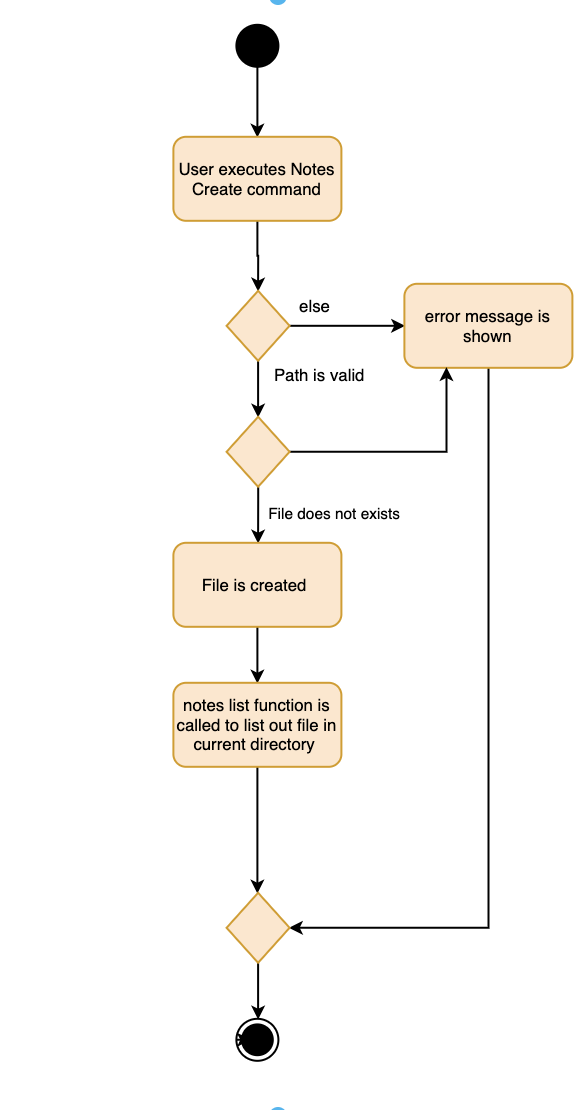
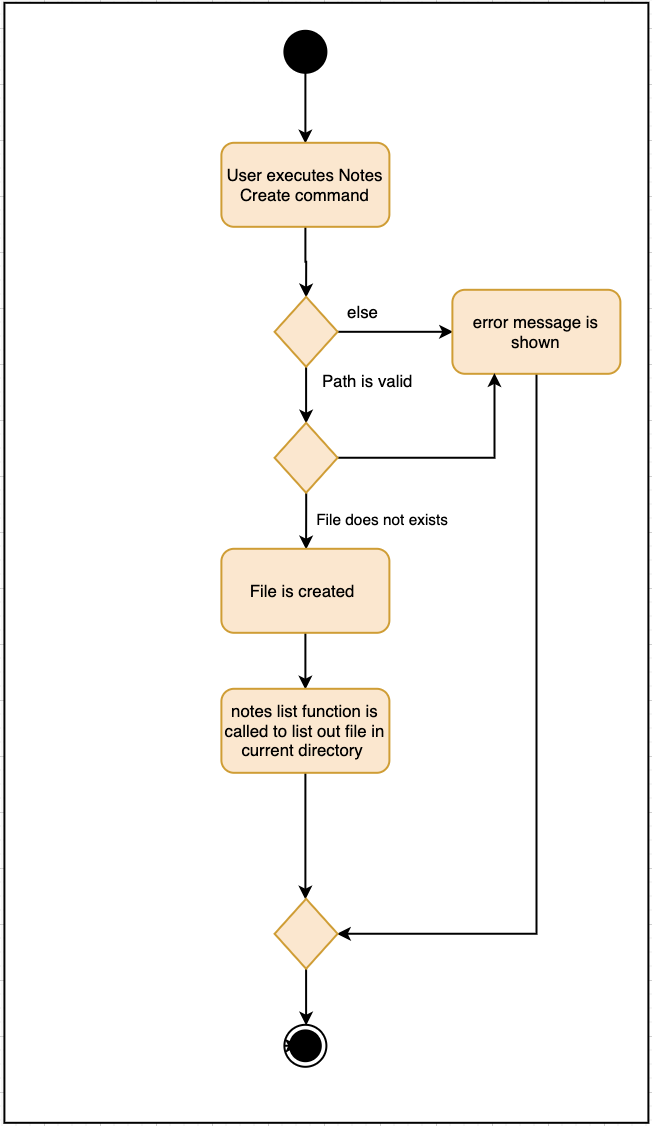
Rebuild pages at f28ee27adf2f9c534672d38e091a58de673bfee4

Changed region(s): [[0.0, 0.0, 1.0, 1.0]]

diff --git a/team/zhouxinwei.html b/team/zhouxinwei.html
@@ -1,0 +1,175 @@
+<!DOCTYPE html><html lang="en"><head><meta charset="UTF-8"><!--[if IE]><meta http-equiv="X-UA-Compatible" content="IE=edge"><![endif]--><meta name="viewport" content="width=device-width, initial-scale=1.0"><meta name="generator" content="Asciidoctor 1.5.6.1"><title>Zhou Xinwei - Project Portfolio</title><link rel="stylesheet" href="../stylesheets/gh-pages.css">
+<link rel="stylesheet" href="https://cdnjs.cloudflare.com/ajax/libs/font-awesome/4.5.0/css/font-awesome.min.css">
+<link rel="stylesheet" href="../stylesheets/coderay-asciidoctor.css"></head><body class="article"><div id="seedu-header"><nav class="navbar navbar-lg navbar-light bg-lighter"><div class="container"><a class="navbar-brand" href="https://se-edu.github.io/"><img src="../images/SeEduLogo.png" alt="SE-EDU"></a><ul class="navbar-nav"><li class="nav-item"><a class="nav-link" href="https://se-edu.github.io/addressbook-level1">AB-1</a></li><li class="nav-item"><a class="nav-link" href="https://se-edu.github.io/addressbook-level2">AB-2</a></li><li class="nav-item"><a class="nav-link active" href="../index.html">AB-3</a></li><li class="nav-item"><a class="nav-link" href="https://se-edu.github.io/addressbook-level4">AB-4</a></li><li class="nav-item"><a class="nav-link" href="https://se-edu.github.io/collate">Collate</a></li><li class="nav-item"><a class="nav-link" href="https://se-edu.github.io/se-book">Book</a></li><li class="nav-item"><a class="nav-link" href="https://se-edu.github.io/learningresources">Resources</a></li></ul></div></nav></div><div id="site-header"><nav class="navbar navbar-light bg-light"><div class="container"><a class="navbar-brand" href="../index.html">NUSProductivity</a><ul class="navbar-nav"><li class="nav-item"><a class="nav-link" href="../UserGuide.html">User Guide</a></li><li class="nav-item"><a class="nav-link" href="../DeveloperGuide.html">Developer Guide</a></li><li class="nav-item"><a class="nav-link" href="../LearningOutcomes.html">LOs</a></li><li class="nav-item"><a class="nav-link active" href="../AboutUs.html">About Us</a></li><li class="nav-item"><a class="nav-link" href="../ContactUs.html">Contact Us</a></li><li class="navitem"><a class="nav-link" href="https://github.com/se-edu/addressbook-level3"><span class="fa fa-github fa-lg" aria-hidden="true"></span>&nbsp;View on GitHub</a></li></ul></div></nav></div><div id="header"><h1>Zhou Xinwei - Project Portfolio</h1></div><div id="content"><div class="sect1">
+<h2 id="project-nusproductivity"><a class="link" href="#project-nusproductivity">PROJECT: NUSProductivity</a></h2>
+<div class="sectionbody">
+<hr>
+</div>
+</div>
+<div class="sect1">
+<h2 id="overview"><a class="link" href="#overview">Overview</a></h2>
+<div class="sectionbody">
+<div class="paragraph">
+<p>NUSProductivity is a desktop application for NUS students. The user interacts with it using a CLI, and it has a GUI creasted with JavaFX. The application is intended to help NUS students solve their productivity issues and ease student&#8217;s daily task in NUS.</p>
+</div>
+</div>
+</div>
+<div class="sect1">
+<h2 id="summary-of-contributions"><a class="link" href="#summary-of-contributions">Summary of contributions</a></h2>
+<div class="sectionbody">
+<div class="ulist">
+<ul>
+<li>
+<p><strong>Major enhancement</strong>: Added all UI functionality to the system</p>
+<div class="ulist">
+<ul>
+<li>
+<p>What it does: Allows all commands entered to display on the User interface</p>
+</li>
+<li>
+<p>Justification: This feature improves the product significantly because a user will be able to see all changes made to the user display.</p>
+</li>
+<li>
+<p>Highlights: This enhancement affects existing commands and commands to be added in future. It required an in-depth analysis of design alternatives. The implementation too was challenging as it required changes to existing commands.</p>
+</li>
+<li>
+<p>Credits: <em>{mention here if you reused any code/ideas from elsewhere or if a third-party library is heavily used in the feature so that a reader can make a more accurate judgement of how much effort went into the feature}</em></p>
+</li>
+</ul>
+</div>
+</li>
+<li>
+<p><strong>Major enhancement 2</strong>: Notes Feature</p>
+<div class="ulist">
+<ul>
+<li>
+<p>What it does: This feature allow users to create, open, delete and list all files in a directory that the user specified</p>
+</li>
+<li>
+<p>Justification: This feature improves the product significantly because a user will be able to access their desktop through the use of the app to create documents.</p>
+</li>
+<li>
+<p>Highlights: This enhancement requires it to be compatible with any operating system, mainly Windows, Mac and Linux. The implementation with the pathing was one of the harder one to grasp especially with different pathing system used by different operating system.</p>
+</li>
+</ul>
+</div>
+</li>
+<li>
+<p><strong>Major enhancement 3</strong>: Calendar Feature</p>
+<div class="ulist">
+<ul>
+<li>
+<p>What it does: This feature allow users to track deadlines and tasks related to modules. It allows user to see what tasks is due on a day, what task is currently ongoing/done and the ability to find task and sort task in the User Interface.</p>
+</li>
+<li>
+<p>Justification: This feature improves the product significantly because a user will be able to write down different task that needs to be completed by a certain date.</p>
+</li>
+<li>
+<p>Highlights: This enhancement affects existing commands, particularly the storage functions. It required an in-depth analysis of design alternatives. The implementation was challenging as well since I had to modify various aspect of the storage system.</p>
+</li>
+</ul>
+</div>
+</li>
+<li>
+<p><strong>Minor enhancement</strong>: Added all functionality to the user interface.</p>
+</li>
+<li>
+<p><strong>Code contributed</strong>: [<a href="https://nus-cs2103-ay1920s2.github.io/tp-dashboard/#search=zhouxinwei97&amp;sort=groupTitle&amp;sortWithin=title&amp;since=2020-02-14&amp;timeframe=commit&amp;mergegroup=false&amp;groupSelect=groupByRepos&amp;breakdown=false">Functional code</a>]</p>
+</li>
+<li>
+<p><strong>Other contributions</strong>:</p>
+<div class="ulist">
+<ul>
+<li>
+<p>Project management:</p>
+<div class="ulist">
+<ul>
+<li>
+<p>Managed releases <code>v1.1</code> - <code>v1.4</code> (4 releases) on GitHub</p>
+</li>
+</ul>
+</div>
+</li>
+<li>
+<p>Documentation:</p>
+<div class="ulist">
+<ul>
+<li>
+<p>Did cosmetic tweaks to existing contents of the User Guide: <a href="https://github.com">#14</a></p>
+</li>
+</ul>
+</div>
+</li>
+<li>
+<p>Reviewing/mentoring contribution:</p>
+<div class="ulist">
+<ul>
+<li>
+<p>Gave feedbacks and reviewed on code pull requests <a href="https://github.com/AY1920S2-CS2103T-W16-4/main/pull/86">#86</a>, <a href="https://github.com/AY1920S2-CS2103T-W16-4/main/pull/73">#73</a></p>
+</li>
+</ul>
+</div>
+</li>
+<li>
+<p>Community:</p>
+<div class="ulist">
+<ul>
+<li>
+<p>Reported bugs and suggestions for other teams in the class (examples:  <a href="https://github.com/nus-cs2103-AY1920S2/addressbook-level3/pull/30/files/27956787443359559bd0e052afc52dd38c6dee7a">#30</a>)</p>
+</li>
+</ul>
+</div>
+</li>
+<li>
+<p>Tools:</p>
+<div class="ulist">
+<ul>
+<li>
+<p>Integrated AppVeyor to the project for CI (<a href="https://github.com/AY1920S2-CS2103T-W16-4/main/pull/10">#10</a>)</p>
+</li>
+<li>
+<p>Integrated Travis to the project for CI (<a href="https://github.com/AY1920S2-CS2103T-W16-4/main/pull/3">#3</a>)</p>
+</li>
+<li>
+<p>Integrated Coderalls to the project for CI (<a href="https://github.com/AY1920S2-CS2103T-W16-4/main/pull/10">#10</a>)</p>
+</li>
+</ul>
+</div>
+</li>
+</ul>
+</div>
+</li>
+</ul>
+</div>
+</div>
+</div>
+<div class="sect1">
+<h2 id="contributions-to-the-user-guide"><a class="link" href="#contributions-to-the-user-guide">Contributions to the User Guide</a></h2>
+<div class="sectionbody">
+<table class="tableblock frame-all grid-all spread">
+<colgroup>
+<col style="width: 100%;">
+</colgroup>
+<tbody>
+<tr>
+<td class="tableblock halign-left valign-top"><p class="tableblock"><em>Given below are sections I contributed to the User Guide. They showcase my ability to write documentation targeting end-users.</em></p></td>
+</tr>
+</tbody>
+</table>
+</div>
+</div>
+<div class="sect1">
+<h2 id="contributions-to-the-developer-guide"><a class="link" href="#contributions-to-the-developer-guide">Contributions to the Developer Guide</a></h2>
+<div class="sectionbody">
+<table class="tableblock frame-all grid-all spread">
+<colgroup>
+<col style="width: 100%;">
+</colgroup>
+<tbody>
+<tr>
+<td class="tableblock halign-left valign-top"><p class="tableblock"><em>Given below are sections I contributed to the Developer Guide. They showcase my ability to write technical documentation and the technical depth of my contributions to the project.</em></p></td>
+</tr>
+</tbody>
+</table>
+</div>
+</div></div><div id="footer"><div class="container"><div id="footer-text">Last updated 2020-04-09 05:51:53 UTC</div></div></div></body></html>

diff --git a/DeveloperGuide.html b/DeveloperGuide.html
@@ -486,7 +486,7 @@ Users can use <code>grade</code> command, followed by the module code and the gr
 </div>
 <div class="imageblock">
 <div class="content">
-<img src="images/NotesListCommand.png" alt="NotesListCommand">
+<img src="images/NotesList.png" alt="NotesList">
 </div>
 <div class="title">Figure 9. Notes List Activity Diagram</div>
 </div>
@@ -1139,4 +1139,4 @@ Expected: Similar to previous.</p>
 </div>
 </div>
 </div>
-</div></div><div id="footer"><div class="container"><div id="footer-text">Last updated 2020-04-09 02:05:58 UTC</div></div></div></body></html>
+</div></div><div id="footer"><div class="container"><div id="footer-text">Last updated 2020-04-09 05:51:53 UTC</div></div></div></body></html>

diff --git a/tutorials/RemovingFields.html b/tutorials/RemovingFields.html
@@ -175,4 +175,4 @@ While keeping the <code>address</code> field in the json files does not cause th
 <p>You can go through each individual <code>json</code> file and manually remove the <code>address</code> field.</p>
 </div>
 </div>
-</div></div><div id="footer"><div class="container"><div id="footer-text">Last updated 2020-04-09 02:05:58 UTC</div></div></div></body></html>
+</div></div><div id="footer"><div class="container"><div id="footer-text">Last updated 2020-04-09 05:51:53 UTC</div></div></div></body></html>

diff --git a/Testing.html b/Testing.html
@@ -90,4 +90,4 @@ e.g. <code>seedu.address.logic.LogicManagerTest</code></p>
 <div class="title">Figure 1. <code>Accessibility</code> permission is granted to <code>IntelliJ IDEA</code></div>
 </div>
 </div>
-</div></div><div id="footer"><div class="container"><div id="footer-text">Last updated 2020-04-09 02:05:58 UTC</div></div></div></body></html>
+</div></div><div id="footer"><div class="container"><div id="footer-text">Last updated 2020-04-09 05:51:53 UTC</div></div></div></body></html>

diff --git a/ContactUs.html b/ContactUs.html
@@ -12,4 +12,4 @@
 <p><strong>Email us</strong> : You can also reach us at <code>zhou.xinwei [at] u.nus.edu</code></p>
 </li>
 </ul>
-</div></div><div id="footer"><div class="container"><div id="footer-text">Last updated 2020-04-09 02:05:58 UTC</div></div></div></body></html>
+</div></div><div id="footer"><div class="container"><div id="footer-text">Last updated 2020-04-09 05:51:53 UTC</div></div></div></body></html>

diff --git a/SettingUp.html b/SettingUp.html
@@ -180,4 +180,4 @@ Having both Travis and AppVeyor ensures your App works on both Unix-based platfo
 </div>
 </div>
 </div>
-</div></div><div id="footer"><div class="container"><div id="footer-text">Last updated 2020-04-09 02:05:58 UTC</div></div></div></body></html>
+</div></div><div id="footer"><div class="container"><div id="footer-text">Last updated 2020-04-09 05:51:53 UTC</div></div></div></body></html>

diff --git a/tutorials/AddRemark.html b/tutorials/AddRemark.html
@@ -562,4 +562,4 @@ In this case, <code>CommandTestUtil#assertCommandSuccess</code> is the best fit 
 </div>
 </div>
 </div>
-</div></div><div id="footer"><div class="container"><div id="footer-text">Last updated 2020-04-09 02:05:58 UTC</div></div></div></body></html>
+</div></div><div id="footer"><div class="container"><div id="footer-text">Last updated 2020-04-09 05:51:53 UTC</div></div></div></body></html>

diff --git a/UsingCoveralls.html b/UsingCoveralls.html
@@ -111,4 +111,4 @@ If you have not set up Travis CI, see <a href="UsingTravis.html">UsingTravis.ado
 </ol>
 </div>
 </div>
-</div></div><div id="footer"><div class="container"><div id="footer-text">Last updated 2020-04-09 02:05:58 UTC</div></div></div></body></html>
+</div></div><div id="footer"><div class="container"><div id="footer-text">Last updated 2020-04-09 05:51:53 UTC</div></div></div></body></html>

diff --git a/UsingGradle.html b/UsingGradle.html
@@ -228,4 +228,4 @@ See <code>build.gradle</code> &#8594; <code>allprojects</code> &#8594; <code>dep
 </ul>
 </div>
 </div>
-</div></div><div id="footer"><div class="container"><div id="footer-text">Last updated 2020-04-09 02:05:58 UTC</div></div></div></body></html>
+</div></div><div id="footer"><div class="container"><div id="footer-text">Last updated 2020-04-09 05:51:53 UTC</div></div></div></body></html>

diff --git a/UsingNetlify.html b/UsingNetlify.html
@@ -138,4 +138,4 @@ The publish directory is the directory in which the built HTML documentation res
 </ol>
 </div>
 </div>
-</div></div><div id="footer"><div class="container"><div id="footer-text">Last updated 2020-04-09 02:05:58 UTC</div></div></div></body></html>
+</div></div><div id="footer"><div class="container"><div id="footer-text">Last updated 2020-04-09 05:51:53 UTC</div></div></div></body></html>

diff --git a/AboutUs.html b/AboutUs.html
@@ -89,4 +89,4 @@ We are a team based in the <a href="http://www.comp.nus.edu.sg">School of Comput
 <hr>
 </div>
 </div>
-</div></div><div id="footer"><div class="container"><div id="footer-text">Last updated 2020-04-09 02:05:58 UTC</div></div></div></body></html>
+</div></div><div id="footer"><div class="container"><div id="footer-text">Last updated 2020-04-09 05:51:53 UTC</div></div></div></body></html>

diff --git a/Documentation.html b/Documentation.html
@@ -226,4 +226,4 @@ The SE-EDU team does not provide support for modified template files.</p>
 </table>
 </div>
 </div>
-</div></div><div id="footer"><div class="container"><div id="footer-text">Last updated 2020-04-09 02:05:58 UTC</div></div></div></body></html>
+</div></div><div id="footer"><div class="container"><div id="footer-text">Last updated 2020-04-09 05:51:53 UTC</div></div></div></body></html>
